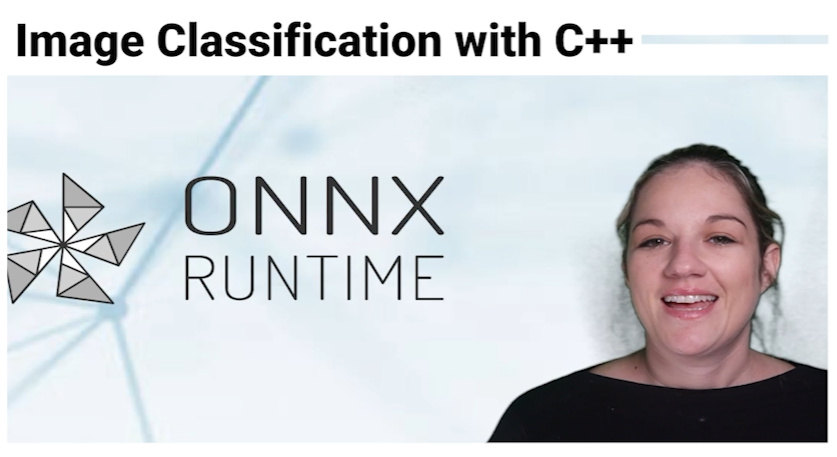
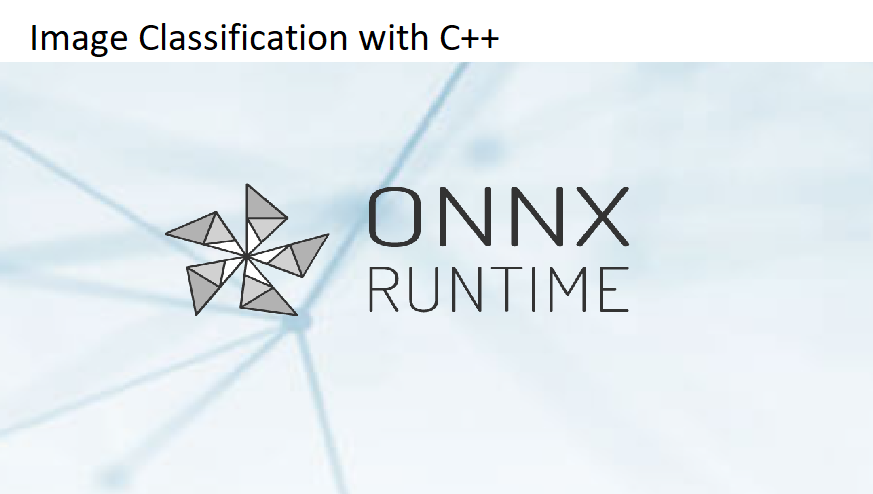
update images remove titles

diff --git a/index.html b/index.html
@@ -575,27 +575,23 @@
 									<a class="resources-img text-center p-0 border-0" target="_blank" href="https://www.youtube.com/playlist?list=PLqPV7GJuaUV9a_ikjn4QqWMKHjGKdjPjb" aria-label="Review the most recent ONNX Runtime Release!">
 										<img src="./images/youtube-release.png" alt="Open Source" />
 									</a>
-									<p>Review the most recent ONNX Runtime Release</p>
 
 								</div>
 								<div class="col-12 col-md-3 mb-4 mb-md-0">
 									<a class="resources-img text-center p-0 border-0" href="https://youtu.be/lRBsmnBE9ZA" target="_blank" aria-label="Converting Models to ONNX Format">
 										<img src="./images/youtube-convert.png" alt="Open Source" />
 									</a>
-									<p>Converting Models to ONNX Format</p>
 								</div>
 								<div class="col-12 col-md-3 mb-4 mb-md-0">
 									<a class="resources-img text-center p-0 border-0" href="https://youtu.be/imjqRdsm2Qw" aria-label="Inference with C++">
 										<img src="./images/youtube-cpp.png" alt="Open Source" />
 									</a>
-									<p>Inference with C++</p>
 								</div>
 
 								<div class="col-12 col-md-3">
 									<a class="resources-img text-center p-0 border-0" href="https://youtu.be/oWYphpV6A40" aria-label="Inference in Unreal Engine">
 										<img src="./images/youtube-ue5.png" alt="Open Source" />
 									</a>
-									<p>Inference in Unreal Engine</p>
 								</div>
 							</div>
 						</div>
